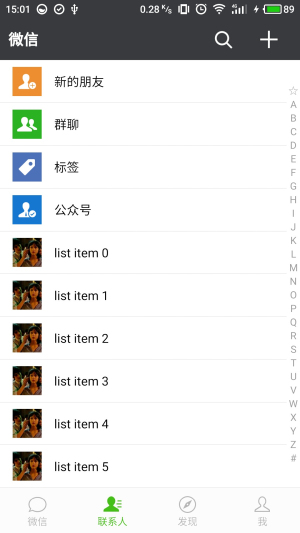
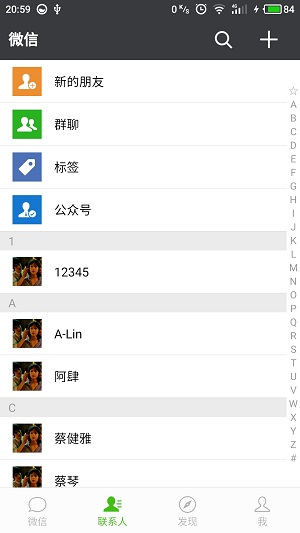
change screenshot picture

diff --git a/ContactsScreen.js b/ContactsScreen.js
@@ -53,6 +53,9 @@ export default class ContactsScreen extends Component {
     for (var i = 0; i < contacts.length; i++) {
       var pinyin = pinyinUtil.getFullChars(contacts[i]);
       var firstLetter = pinyin.substring(0, 1);
+      if (firstLetter < 'A' || firstLetter > 'Z') {
+        firstLetter = '#';
+      }
       console.log('pinyin = ' + pinyin + ', firstLetter = ' + firstLetter);
       listData.push({
         key: index++,
@@ -107,7 +110,7 @@ export default class ContactsScreen extends Component {
   renderItem = (item) => {
     var section = [];
     if (item.item.sectionStart) {
-      section.push(<Text style={listItemStyle.sectionView}>{item.item.firstLetter}</Text>);
+      section.push(<Text key={"section" + item.item.key} style={listItemStyle.sectionView}>{item.item.firstLetter}</Text>);
     }
     return (
       <View>

diff --git a/SideBar.js b/SideBar.js
@@ -15,7 +15,7 @@ for (var i = 'A'; i <= 'Z'; i++) {
 
 export default class SideBar extends Component {
   render() {
-    var letters = ['☆', 'A', 'B', 'C', 'D', 'E', 'F', 'G', 'H', 'I', 'J', 'K', 'L', 'M', 'N', 'O', 'P', 'Q', 'R', 'S', 'T', 'U', 'V', 'W', 'X', 'Y', 'Z', '#'];
+    var letters = ['☆', '#', 'A', 'B', 'C', 'D', 'E', 'F', 'G', 'H', 'I', 'J', 'K', 'L', 'M', 'N', 'O', 'P', 'Q', 'R', 'S', 'T', 'U', 'V', 'W', 'X', 'Y', 'Z'];
     var letterViewArr = [];
     for (var i = 0; i < letters.length; i++) {
       letterViewArr.push(
